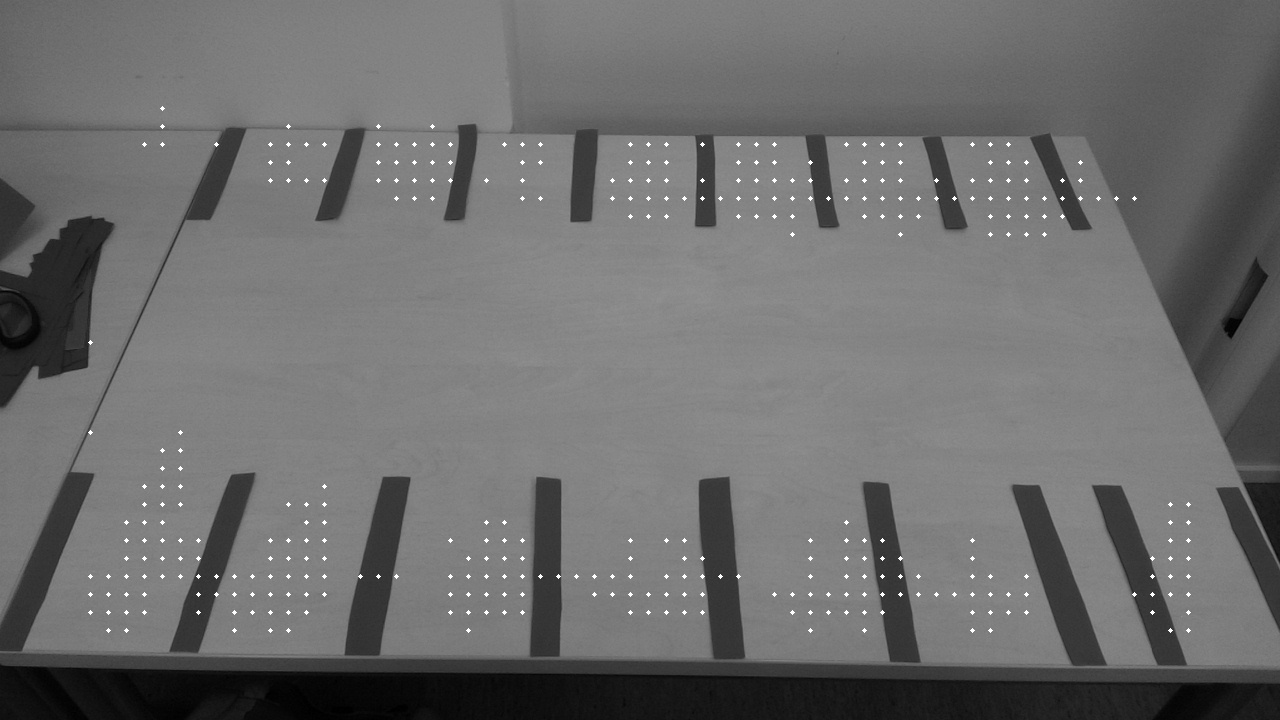
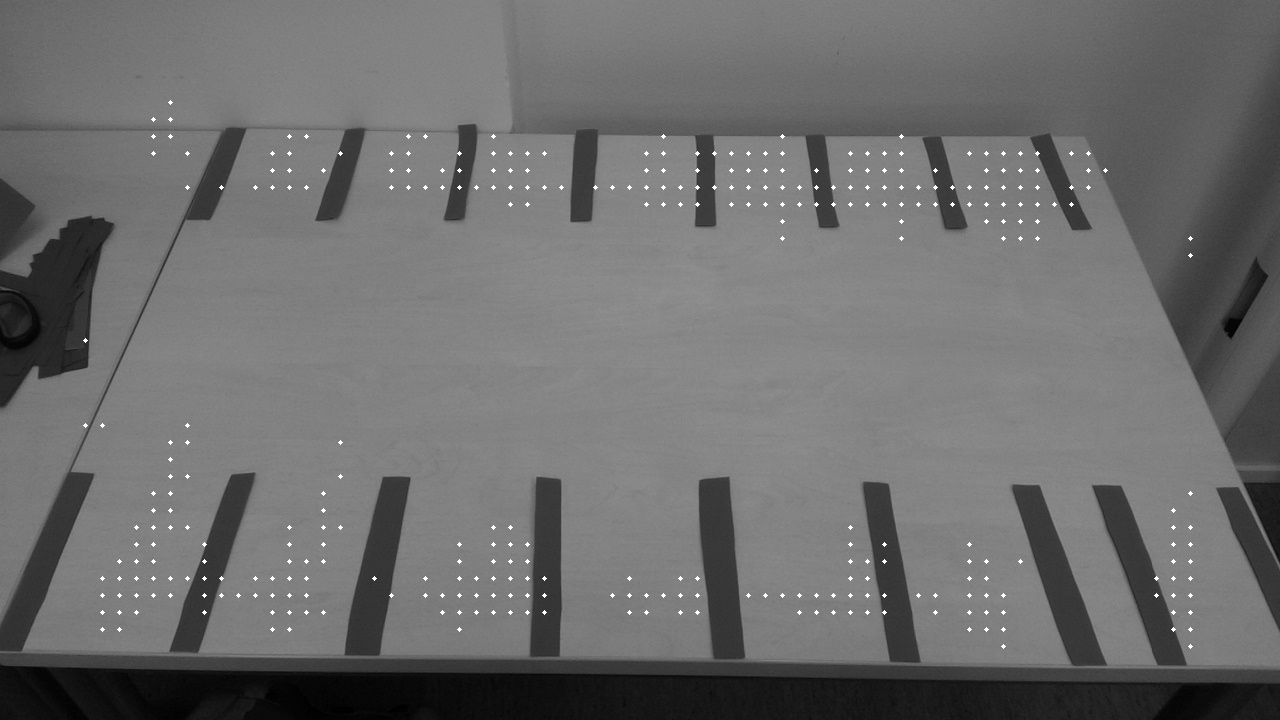
Fix clustering, add new clustering algorithms

diff --git a/ParkingPlace/ImageRecognition.py b/ParkingPlace/ImageRecognition.py
@@ -5,7 +5,12 @@ import tflearn
 import cv2
 import matplotlib.pyplot as plt
 
+from sklearn.cluster import MeanShift, estimate_bandwidth
+
+
+from random import randint
 from pyclustering.cluster.optics import optics
+from pyclustering.cluster.kmeans import kmeans
 from pyclustering.cluster import cluster_visualizer
 from tflearn.layers.conv import conv_2d, max_pool_2d
 from tflearn.layers.core import input_data,  dropout,  fully_connected
@@ -212,11 +217,11 @@ def draw_heatmap():
             while True:
                 crop = image2[curr_position[1]:curr_position[1] + crop_size_height, curr_position[0]:curr_position[0] + crop_size_width]
                 if predict(crop):
-                    #cv2.circle(image, (int(curr_position[0] + crop_size_width / 2), int(curr_position[1] + crop_size_height / 2)),
-                    #              2,
-                    #              (255, 0, 0), -1)
-                    POIX.append(curr_position[0])
-                    POIY.append(curr_position[1])
+                    cv2.circle(image, (int(curr_position[0] + crop_size_width / 2), int(curr_position[1] + crop_size_height / 2)),
+                                  2,
+                                  (255, 0, 0), -1)
+                    POIX.append(curr_position[0] + crop_size_width / 2)
+                    POIY.append(curr_position[1] + crop_size_height / 2)
                     curr_position[0] = int(curr_position[0] + move_ratio_width)
                 else:
                     curr_position[0] = int(curr_position[0] + move_ratio_width)
@@ -245,8 +250,10 @@ def draw_heatmap():
     cv2.imwrite(heatmap_img_file_name, image)
 
     os.chdir('..')
-    clusters = cluster(POIX, POIY)
+    clusters = cluster_kmeans(POIX, POIY)
     park_mid_points = []
+    #park_mid_points = cluster_meanshift(POIX, POIY)
+
     for i in range(len(clusters)):
         avg = 0
         count = 0
@@ -255,23 +262,47 @@ def draw_heatmap():
             avg += j
         park_mid_points.append([int(avg[0] / count), int(avg[1] / count)])
 
+    image = image2.copy()
     for i in range(len(park_mid_points)):
          cv2.circle(image, (park_mid_points[i][0], park_mid_points[i][1]),
                       2,
                       (255, 0, 0), -1)
-        #cv2.rectangle(image,
-        #              (park_mid_points[i][0] - int(crop_size_width / 2),
-        #               park_mid_points[i][1] - int(crop_size_height / 2)),
-        #              (park_mid_points[i][0] + int(crop_size_width / 2),
-        #               park_mid_points[i][1] + int(crop_size_height / 2)),
-        #              (255, 0, 0),
-        #              2)
-   # if visualize:
-    cv2.imshow("main", image)
-    cv2.waitKey()
+         #cv2.rectangle(image,
+         #             (park_mid_points[i][0] - int(crop_size_width / 3),
+         #              park_mid_points[i][1] - int(crop_size_height / 2)),
+         #             (park_mid_points[i][0] + int(crop_size_width / 3),
+         #              park_mid_points[i][1] + int(crop_size_height / 2)),
+         #             (255, 0, 0),
+         #             2)
+    if visualize:
+        cv2.imshow("main", image)
+        cv2.waitKey()
+
+    if not os.path.exists('results'):
+        os.makedirs('results')
+    os.chdir('results')
+    cv2.imwrite(model_name + 'C' + str(crop_size_width) + '.jpg', image)
+    os.chdir('..')
+
+def cluster_meanshift(xs, ys):
+    POI = []
+    for i in range(len(xs)):
+        POI.append([xs[i], ys[i]])
+    POI = np.array(POI)
+
+    bw = estimate_bandwidth(POI, quantile=0.085, n_samples=50)
+
+    ms = MeanShift(bw, bin_seeding=True)
+    ms.fit(POI)
+    clusters = ms.cluster_centers_.astype(int)
+    print(len(np.unique(ms.labels_)))
+
+    ret = clusters
+
+    return ret
 
 
-def cluster(xs, ys):
+def cluster_optics(xs, ys):
     POI = []
     for i in range(len(xs)):
         POI.append([xs[i], ys[i]])
@@ -281,10 +312,39 @@ def cluster(xs, ys):
     optics_instance.process()
     clusters = optics_instance.get_clusters()
 
-    #if visualize:
-    vis = cluster_visualizer()
-    vis.append_clusters(clusters, POI)
-    vis.show()
+    if visualize:
+        vis = cluster_visualizer()
+        vis.append_clusters(clusters, POI)
+        vis.show()
+    ret = []
+
+    for i in range(len(clusters)):
+        ret.append([])
+        for j in range(len(clusters[i])):
+            ret[i].append(POI[clusters[i][j]])
+
+    return ret
+
+def cluster_kmeans(xs, ys):
+    POI = []
+    for i in range(len(xs)):
+        POI.append([xs[i], ys[i]])
+    POI = np.array(POI)
+
+    rand = []
+    for i in range(14):
+        r = randint(0, len(POI))
+        rand.append(POI[r])
+
+
+    kmeans_instance = kmeans(POI, rand, 4)
+    kmeans_instance.process()
+    clusters = kmeans_instance.get_clusters()
+
+    if visualize:
+        vis = cluster_visualizer()
+        vis.append_clusters(clusters, POI)
+        vis.show()
     ret = []
 
     for i in range(len(clusters)):

diff --git a/ParkingPlace/test.py b/ParkingPlace/test.py
@@ -3,6 +3,7 @@ import math
 
 
 
+
 '''
 4
 5
@@ -25,15 +26,15 @@ import math
 #
 
 
-LR_iterations = 1
-Layer_iterations = 1
-epoch_iterations = 1
-start_epochs = 20
+LR_iterations = 4
+Layer_iterations = 4
+epoch_iterations = 4
+start_epochs = 10
 epochs = 0
 start_rate = 0.001
-start_layers = 4
+start_layers = 3
 image_file = '1.jpg'
-train = False
+train = True
 test = True
 crop_size = 180
 visualize = False

diff --git a/ParkingPlace/TFTrainSinglePark.py b/ParkingPlace/TFTrainSinglePark.py
@@ -69,7 +69,7 @@ def train_network(train_data):
     
     convnet = fully_connected(convnet,  2,  activation='softmax')
     convnet = regression(convnet,  optimizer='adam',  learning_rate=LR,  loss='categorical_crossentropy',  name='targets')
-    
+
     model = tflearn.DNN(convnet,  tensorboard_dir='log')
 
     if not os.path.exists(DATA_FOLDER + 'models'):

diff --git a/DataGathering/VideoToImages/videotoimages.py b/DataGathering/VideoToImages/videotoimages.py
@@ -54,7 +54,7 @@ def videos_to_pictures(output_folder,  vids):
             while True:
                 success,  image = vid.read()
                 if(cv2.waitKey(10) == 27 or success == False):
-                    break;
+                    break
                 cv2.imwrite(str(count) + '.jpg',  image)
                 count += 1
         os.chdir('..')
